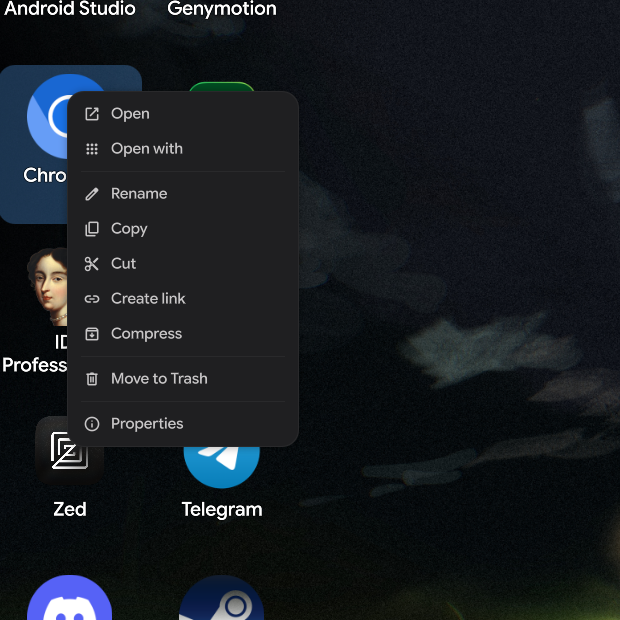
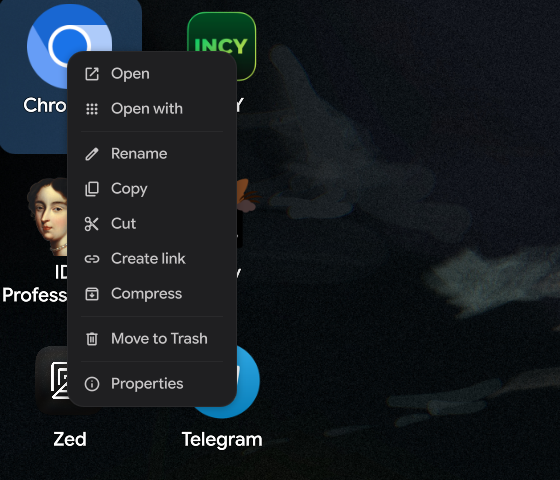
Refresh screenshots for tabs, language and adaptive menus

diff --git a/README.md b/README.md
@@ -26,6 +26,7 @@ desktop-entry aware icons/launching.
   Move to Trash, Properties.
 - Context menu on the desktop: New Folder, New File, Paste, Select all, Arrange icons,
   Refresh, Desktop settings, Open terminal.
+- Menus size themselves to the longest label, so longer translations are never cut off.
 - Arrange: by name, by type, by size, by date modified; auto arrange; grid direction;
   snap to grid; reset positions.
 - Clipboard: `Ctrl+C` / `Ctrl+X` / `Ctrl+V` (copies get `name (copy).ext`).
@@ -72,6 +73,10 @@ Right-click the desktop → **Desktop settings**. Everything applies live, split
   desktop does not dismiss it).
 
 ![settings](assets/settings.jpg)
+
+Language tab:
+
+![language](assets/language.jpg)
 
 ## Context menus
 
